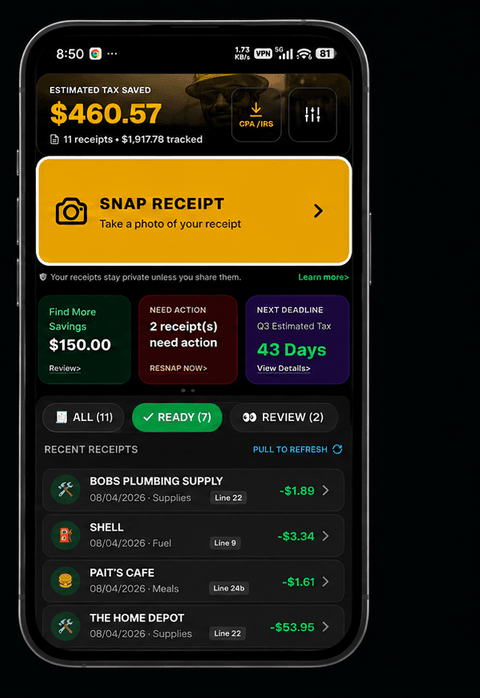
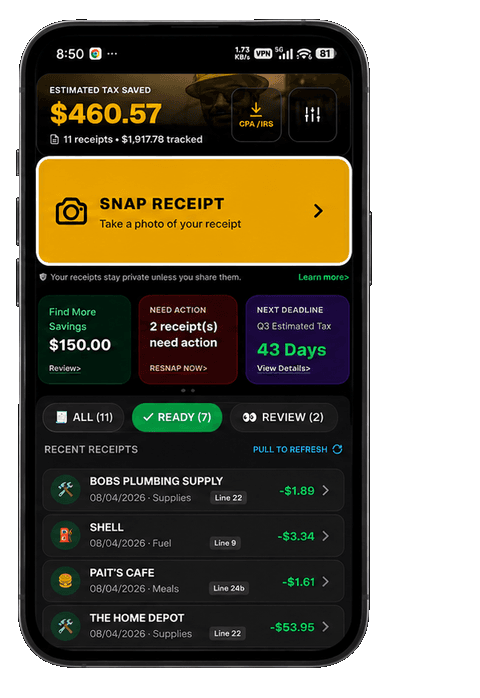
feat(seo): transparent canvas for plumber phone and steps assets

diff --git a/lib/marketing/seo/industries.test.ts b/lib/marketing/seo/industries.test.ts
@@ -1,5 +1,7 @@
 import assert from "node:assert/strict";
+import path from "node:path";
 import { describe, it } from "node:test";
+import sharp from "sharp";
 import {
   getIndustryBySlug,
   listPublishedIndustries,
@@ -208,5 +210,16 @@ describe("seo industries registry", () => {
     assert.ok(page.problemsClosing);
     assert.equal(getIndustryBySlug("electrician")?.presentation, undefined);
     assert.equal(getIndustryBySlug("hvac")?.presentation, undefined);
+  });
+
+  it("plumber phone and steps assets have alpha channel", async () => {
+    const root = process.cwd();
+    for (const rel of [
+      "public/marketing/seo/plumber-tax-deductions-snaptax-phone.png",
+      "public/marketing/seo/plumber-tax-deductions-snaptax-steps.png",
+    ]) {
+      const meta = await sharp(path.join(root, rel)).metadata();
+      assert.equal(meta.hasAlpha, true, `${rel} must have alpha`);
+    }
   });
 });

diff --git a/docs/seo/plumber/ASSETS.md b/docs/seo/plumber/ASSETS.md
@@ -3,8 +3,8 @@
 Runtime images live under `public/marketing/seo/`:
 
 - `plumber-tax-deductions-snaptax.png` — hero worker scene (~960w)
-- `plumber-tax-deductions-snaptax-phone.png` — Hero single-phone mock
-- `plumber-tax-deductions-snaptax-steps.png` — How it Works three-phone strip (~1200w)
+- `plumber-tax-deductions-snaptax-phone.png` — Hero single-phone mock (transparent canvas alpha)
+- `plumber-tax-deductions-snaptax-steps.png` — How it Works three-phone strip (~1200w, transparent canvas alpha)
 - `plumber-tax-deductions-snaptax-og.jpg` — Open Graph (1200×630)
 - `plumber-tax-deductions-snaptax-cta.webp` — CTA section background (~1600w)
 
